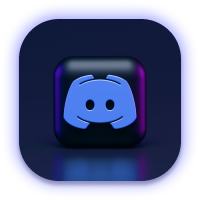
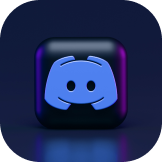
revise week02 nav a and  about me ol and contact  methood img hover

diff --git a/pages/20230714/20230714Week02/William'sCurriculumVitae.html b/pages/20230714/20230714Week02/William'sCurriculumVitae.html
@@ -17,17 +17,15 @@
     <header>
       <div class="container">
         <ul class="nav">
-          <li><a href="#">WILLIAM LEE</a></li>
-          <li><a href="#">BASED IN TAIWAN</a></li>
-          <li>
-            <a href="#">CURRENTLY FRONT END<br />ENGINEER AT HEXSCHOOL</a>
-          </li>
+          <li>WILLIAM LEE</li>
+          <li>BASED IN TAIWAN</li>
+          <li>CURRENTLY FRONT END<br />ENGINEER AT HEXSCHOOL</li>
           <li><a href="#">CONTACT ME</a></li>
         </ul>
         <div class="banner">
           <div class="omg_me">
             <img
-              src="../../../assets/images/pages/20230714/20230714Week02Kata/people.png"
+              src="../../../assets/images/pages/20230714/20230714Week02/people.png"
               alt="William_img"
             />
           </div>
@@ -38,7 +36,7 @@
               <a href="#"
                 ><span>contact me</span
                 ><img
-                  src="../../../assets/images/pages/20230714/20230714Week02Kata/arrow_outward.png"
+                  src="../../../assets/images/pages/20230714/20230714Week02/arrow_outward.png"
                   alt="arrow_img"
               /></a>
             </div>
@@ -58,19 +56,19 @@
           <ul>
             <li>
               <img
-                src="../../../assets/images/pages/20230714/20230714Week02Kata/sparkle-sm.png"
+                src="../../../assets/images/pages/20230714/20230714Week02/sparkle-sm.png"
                 alt="sparkle_sm_png"
               />
             </li>
             <li>
               <img
-                src="../../../assets/images/pages/20230714/20230714Week02Kata/sparkle-sm.png"
+                src="../../../assets/images/pages/20230714/20230714Week02/sparkle-sm.png"
                 alt="sparkle_sm_png"
               />
             </li>
             <li>
               <img
-                src="../../../assets/images/pages/20230714/20230714Week02Kata/sparkle-sm.png"
+                src="../../../assets/images/pages/20230714/20230714Week02/sparkle-sm.png"
                 alt="sparkle_sm_png"
               />
             </li>
@@ -79,19 +77,19 @@
         <ul class="introduction_img">
           <li>
             <img
-              src="../../../assets/images/pages/20230714/20230714Week02Kata/sparkle.png"
+              src="../../../assets/images/pages/20230714/20230714Week02/sparkle.png"
               alt="sparkle_img"
             />
           </li>
           <li>
             <img
-              src="../../../assets/images/pages/20230714/20230714Week02Kata/photographer.png"
+              src="../../../assets/images/pages/20230714/20230714Week02/photographer.png"
               alt="photographer_img"
             />
           </li>
           <li>
             <img
-              src="../../../assets/images/pages/20230714/20230714Week02Kata/people-2.png"
+              src="../../../assets/images/pages/20230714/20230714Week02/people-2.png"
               alt="me_img"
             />
           </li>
@@ -100,7 +98,7 @@
     </div>
     <div class="about_me">
       <div class="container_padding">
-        <ul class="good_point_list">
+        <ol class="good_point_list">
           <li>
             <h3>01<br />Attention to Detail</h3>
             <p>Meticulous code analysis and optimization.</p>
@@ -117,7 +115,7 @@
             <h3>04<br />Team Player</h3>
             <p>Collaborates and shares ideas.</p>
           </li>
-        </ul>
+        </ol>
         <div class="about_me_contain">
           <h2>About Me</h2>
           <p>
@@ -134,7 +132,7 @@
         <div class="contact_me_contain">
           <h2>CONTACT ME</h2>
           <img
-            src="../../../assets/images/pages/20230714/20230714Week02Kata/trending_flat_black_24dp 1.png"
+            src="../../../assets/images/pages/20230714/20230714Week02/trending_flat_black_24dp 1.png"
             alt="trending_img"
           />
         </div>
@@ -142,21 +140,21 @@
           <li>
             <a href="#"
               ><img
-                src="../../../assets/images/pages/20230714/20230714Week02Kata/discord.png"
+                src="../../../assets/images/pages/20230714/20230714Week02/discord.png"
                 alt="discord_img"
             /></a>
           </li>
           <li>
             <a href="#"
               ><img
-                src="../../../assets/images/pages/20230714/20230714Week02Kata/instagram.png"
+                src="../../../assets/images/pages/20230714/20230714Week02/instagram.png"
                 alt="instagram_img"
             /></a>
           </li>
           <li>
             <a href="#"
               ><img
-                src="../../../assets/images/pages/20230714/20230714Week02Kata/message.png"
+                src="../../../assets/images/pages/20230714/20230714Week02/message.png"
                 alt="message_img"
             /></a>
           </li>
@@ -171,7 +169,7 @@
         <div class="my_projects_contain">
           <div class="projects_computer">
             <img
-              src="../../../assets/images/pages/20230714/20230714Week02Kata/Rectangle 10.png"
+              src="../../../assets/images/pages/20230714/20230714Week02/Rectangle 10.png"
               alt="Rectangle_img"
             />
           </div>
@@ -179,7 +177,7 @@
             <div class="projects_others_contain">
               <div class="projects_code_img">
                 <img
-                  src="../../../assets/images/pages/20230714/20230714Week02Kata/Rectangle 15.png"
+                  src="../../../assets/images/pages/20230714/20230714Week02/Rectangle 15.png"
                   alt="Rectangle_img"
                 />
               </div>
@@ -193,7 +191,7 @@
                   <a href="#"
                     ><span>SEE MORE</span
                     ><img
-                      src="../../../assets/images/pages/20230714/20230714Week02Kata/arrow_outward-white.png"
+                      src="../../../assets/images/pages/20230714/20230714Week02/arrow_outward-white.png"
                       alt="arrow_img"
                   /></a>
                 </div>
@@ -202,13 +200,13 @@
             <ul class="projects_img_list">
               <li>
                 <img
-                  src="../../../assets/images/pages/20230714/20230714Week02Kata/Rectangle 14.png"
+                  src="../../../assets/images/pages/20230714/20230714Week02/Rectangle 14.png"
                   alt="Rectangle_img"
                 />
               </li>
               <li>
                 <img
-                  src="../../../assets/images/pages/20230714/20230714Week02Kata/Rectangle 29.png"
+                  src="../../../assets/images/pages/20230714/20230714Week02/Rectangle 29.png"
                   alt="Rectangle_img"
                 />
               </li>

diff --git a/vite.config.js b/vite.config.js
@@ -33,7 +33,7 @@ export default defineConfig({
   ],
   server: {
     // 啟動 server 時預設開啟的頁面
-    open: "pages/20230714/20230714Week02Kata/William'sCurriculumVitaeKata.html",
+    open: "pages/20230714/20230714Week02/William'sCurriculumVitae.html",
   },
   build: {
     rollupOptions: {

diff --git a/assets/scss/pages/20230714/20230714Week02/William'sCurriculumVitae.scss b/assets/scss/pages/20230714/20230714Week02/William'sCurriculumVitae.scss
@@ -166,6 +166,11 @@ header {
         width: 162px;
         height: 162px;
       }
+      &:hover {
+        border-radius: 64px;
+        box-shadow: 1px 1px 30px 3px #fff;
+        filter: drop-shadow(0 0 10px #fff);
+      }
     }
     &:nth-child(2) {
       margin: 0 20px;
